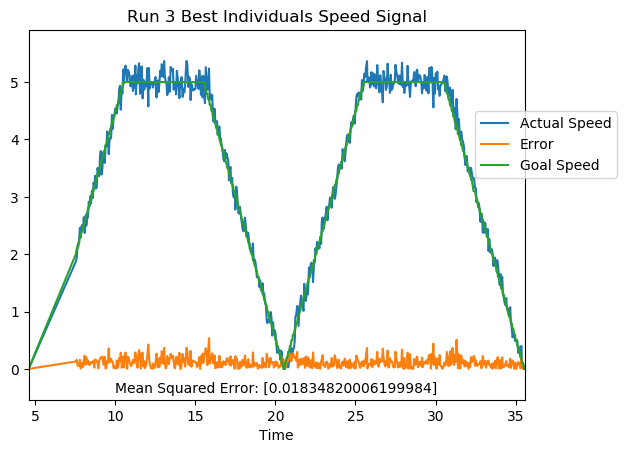
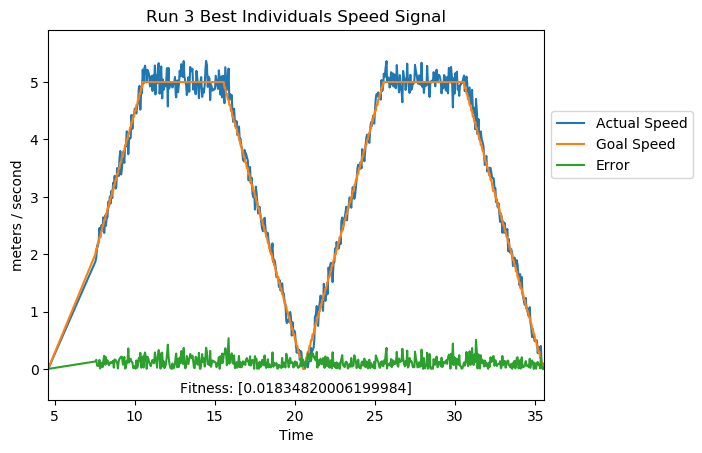
Made edits to plotting scripts and rerun the plots

diff --git a/msu_autorally/evo_ros2/src/EAs/logs/PID-Tuning-Cubed-Fitness/generate_plots.py b/msu_autorally/evo_ros2/src/EAs/logs/PID-Tuning-Cubed-Fitness/generate_plots.py
@@ -1,5 +1,5 @@
 #
-# Used to generate PID-tuning experient plots
+# Used to generate PID-tuning-cubed experient plots
 # GAS 10-16-18
 
 # For command line argument parsing
@@ -35,7 +35,7 @@ class plot_generator():
 		
 		
 		run_multiple = True
-		self.number_runs = 10
+		self.number_runs = 1
 		
 		
 		if run_multiple:
@@ -119,9 +119,9 @@ class plot_generator():
 		#print(list(self.df.columns))
 		ax2 = self.df.plot(x='Time')
 		#ax2.legend(['Actual Speed', 'Error', 'Goal Speed'], loc="upper right")
-		ax2.legend(['Actual Speed', 'Goal Speed', 'Error'], bbox_to_anchor=(1.0, 0.8))
-		plt.ylabel('meters / second')
+		ax2.legend(['Actual Speed (m/s)', 'Goal Speed (m/s)', 'Error'], bbox_to_anchor=(1.2, 0.8))
 		ax2.set_title('Run {} Best Individuals Speed Signal'.format(self.run_number))
+		plt.ylabel('meters / second')
 		plt.text(0.5, 0.03, 'Fitness: {}'.format(self.best_fitness), horizontalalignment='center', verticalalignment='center', transform=ax2.transAxes)
 		fig2 = ax2.get_figure()
 		plt.margins(x = 0.0, y = 0.1)

diff --git a/msu_autorally/evo_ros2/src/EAs/test_single_PID.py b/msu_autorally/evo_ros2/src/EAs/test_single_PID.py
@@ -183,6 +183,7 @@ class DEAP_EA():
 		ax2 = self.df.plot(x='Time')
 		ax2.legend(['Actual Speed', 'Goal Speed', 'Error'], bbox_to_anchor=(1.2, 0.8))
 		ax2.set_title('Run {} Best Individuals Speed Signal'.format(self.run_number))
+		plt.ylabel('meters / second')
 		plt.text(0.5, 0.03, 'Mean Squared Error: {}'.format(self.fitness), horizontalalignment='center', verticalalignment='center', transform=ax2.transAxes)
 		fig2 = ax2.get_figure()
 		plt.margins(x = 0.0, y = 0.1)

diff --git a/msu_autorally/evo_ros2/src/EAs/DEAP_EA_Speed_PID_Tuning.py b/msu_autorally/evo_ros2/src/EAs/DEAP_EA_Speed_PID_Tuning.py
@@ -457,6 +457,7 @@ class DEAP_EA():
 		ax2 = self.df.plot(x='Time')
 		ax2.legend(loc="best")
 		ax2.set_title('Run {} Best Individuals Speed Signal'.format(self.run_number))
+		plt.ylabel('meters / second')
 		fig2 = ax2.get_figure()
 		print('Saving plot 2')
 		fig2.savefig('{}/best_ind_speed_plot.png'.format(self.run_directory), bbox_inches='tight')
